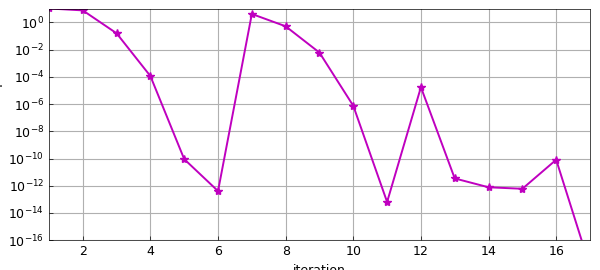
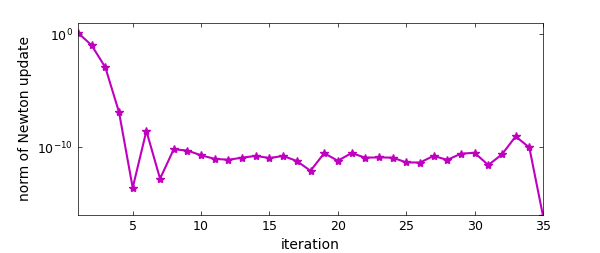
Refresh GulfStream source plots and actual CPU output
Preserve original prose and actual Newton history; document solver parity gaps without tuning tolerances or truncating iterations.

Changed region(s): [[0.0, 0.0277, 0.99, 1.0]]

diff --git a/examples/ode-nonlin/gulf_stream.py b/examples/ode-nonlin/gulf_stream.py
@@ -1,7 +1,7 @@
 """A Gulf Stream model.
 
-Translation of ode-nonlin/GulfStream.m by Nick Trefethen
-(November 2010, after a model of Stommel): the third-order nonlinear
+Translation of ode-nonlin/GulfStream.m by C. I. Gheorghiu
+(January 2020): the third-order nonlinear
 boundary-value problem
 
     u''' - lambda ((u')^2 - u u'') - u + 1 = 0,  x in [0, 35],
@@ -18,7 +18,6 @@ matplotlib.use("Agg")
 import os
 import sys
 import time
-import warnings
 
 import jax.numpy as jnp
 import matplotlib.pyplot as plt
@@ -27,7 +26,7 @@ import numpy as np
 sys.path.insert(0, os.path.join(os.path.dirname(__file__), '..', '..', 'src'))
 
 from chebfunjax.operators.chebop import Chebop
-from chebfunjax.plotting import chebfun_style, plotcoeffs
+from chebfunjax.plotting import chebfun_style, matlab_plot, plotcoeffs
 from chebfunjax.plotting import save_chebfun_figure as _savefig
 
 chebfun_style()
@@ -39,12 +38,39 @@ X = 35.0
 LAM = -0.1
 
 
+def _source_style(fig, slot):
+    from matplotlib.ticker import FormatStrFormatter, LogLocator, NullFormatter
+    fig.set_facecolor("white")
+    fig.set_size_inches(6, 2.53)
+    ax = fig.axes[0]
+    ax.set_position([.13, .15, .775, .76])
+    ax.tick_params(direction="in", top=True, right=True)
+    ax.title.set_fontsize(11)
+    ax.xaxis.label.set_fontsize(10)
+    ax.yaxis.label.set_fontsize(10)
+    ax.xaxis.set_major_formatter(FormatStrFormatter("%g"))
+    if slot == 1:
+        ax.set_xticks([0, 5, 10, 15, 20])
+        ax.yaxis.set_major_formatter(FormatStrFormatter("%g"))
+    elif slot == 2:
+        ax.set_yticks([1, 1e-10])
+        ax.set_xlim(1, len(ax.lines[0].get_xdata()))
+    else:
+        for line in ax.lines:
+            line.set_markersize(3.5)
+            line.set_markeredgewidth(.5)
+        ax.set_yticks([1, 1e-5, 1e-10, 1e-15])
+        ax.yaxis.set_minor_locator(LogLocator(base=10, subs=(1,), numticks=30))
+        ax.yaxis.set_minor_formatter(NullFormatter())
+        ax.grid(True, which="major", color=".85", linewidth=.5)
+        ax.grid(True, which="minor", color=".85", linewidth=.5, linestyle=":")
+
+
 def _save(fig):
     FIG[0] += 1
-    fig.set_facecolor("white")
-    fig.tight_layout()
+    _source_style(fig, FIG[0])
     _savefig(fig, os.path.join(
-        _IMG, f"GulfStream_{FIG[0]:02d}.png"))
+        _IMG, f"GulfStream_{FIG[0]:02d}.png"), size=(600, 253))
     plt.close(fig)
 
 
@@ -55,7 +81,6 @@ def _op(u):
 
 def run():
     os.makedirs(_IMG, exist_ok=True)
-    warnings.filterwarnings("ignore")
     t0 = time.time()
 
     N = Chebop(_op, domain=(0, X))
@@ -63,16 +88,14 @@ def run():
     N.rbc = 1
     u, info = N.solvebvp(0.0)
 
-    t = np.linspace(0, X, 2000)
-    fig, ax = plt.subplots(figsize=(9.2, 4.8))
-    ax.plot(t, np.asarray(u(t)), lw=1.6, label="u")
-    ax.plot(t, np.asarray(u.diff()(t)), lw=1.6, label="u'")
-    ax.plot(t, np.asarray(u.diff(2)(t)), lw=1.6, label="u''")
+    fig, ax = plt.subplots(figsize=(6, 2.53))
+    ax.set_prop_cycle(color=["#0072BD", "#D95319", "#EDB120"])
+    matlab_plot([u, u.diff(), u.diff(2)], ax=ax, linewidth=1.5)
     ax.axis([0, 20, -1, 1.5])
     ax.set_xlabel("x")
-    ax.legend(loc="lower right")
+    ax.legend(["u", "u'", "u''"], loc="lower right", fontsize=9,
+              labelspacing=.1, borderpad=.3, fancybox=False, edgecolor=".4")
     ax.set_title("Slippery or stress-free b. c.")
-    ax.grid(True)
     _save(fig)
 
     print("N_residual =")
@@ -85,16 +108,14 @@ def run():
 
     nd = info["normDelta"]
     fig, ax = plt.subplots(figsize=(9.0, 4.6))
-    ax.semilogy(np.arange(1, len(nd) + 1), nd, 'm*-', lw=1.4)
+    ax.semilogy(np.arange(1, len(nd) + 1), nd, 'm*-', lw=1.5)
     ax.set_ylim(1e-16, 1e1)
     ax.set_xlabel("iteration")
     ax.set_ylabel("norm of Newton update")
-    ax.grid(True)
     _save(fig)
 
     fig, ax = plt.subplots(figsize=(9.0, 4.6))
-    plotcoeffs(u, ax=ax)
-    ax.grid(True)
+    plotcoeffs(u, ax=ax, source=True, color="#0072BD")
     _save(fig)
 
     I = float((u.diff(2)**2

diff --git a/HANDOFF_CODEX.md b/HANDOFF_CODEX.md
@@ -1,5 +1,24 @@
 # chebfunjax: handoff to a Codex agent (2026-10-02)
 
+## GulfStream actual-output and figure refresh (2026-10-08)
+
+Source script rerun on CPU completed at83.09s supervised/3.23GiB peak,
+stable inputs and no survivors. The earlier3GiB capped run is retained.
+All three figures now have the source600x253 canvas and use public source
+plot/plotcoeffs adapters; printed output is the actual completed computation.
+Root rehashed1660 observed Python/native-extension files, checked source/run
+AST identity after styling, preserved prose/MATLAB cells, and viewed all three
+reference/current pairs. Fonts, sampling grids and pixels are not fully equal.
+
+Scientific parity remains open:35 Newton updates versus reference5,57
+coefficients, integral error1.605131083604050e-9 versus cached8.482e-14,
+left derivative boundary residual1.458e-9. The differential residual is
+1.547e-12 (cached4.581e-10); comparisons are not uniformly worse. Actual
+history is retained. Source initial-guess, stopping-norm and adaptive-solve
+policy gaps are documented for the nonlinear solver worker; no tolerance
+or iteration-history tuning was performed. Evidence:gulf_stream_root_acceptance_20261008.json
+and gulf_stream_source_20261008/SOLVER_DIAGNOSIS.md in shared scratch.
+
 ## Restriction and Ballfun Helmholtz source qualification (2026-10-08)
 
 Chebfun restriction now preserves breakpoint vectors, existing point values,

diff --git a/docs/examples/ode-nonlin/GulfStream.md b/docs/examples/ode-nonlin/GulfStream.md
@@ -48,15 +48,15 @@ rbc_residual = u(end) - rbc               % residual of right BC
 
 ```text
 N_residual =
-     1.475728221374910e-09
+     1.547130238609495e-12
 lbc_residuals =
-   -3.108624468950438e-15  1.227379933799178e-10
+   0.000000000000000e+00  1.457544196448168e-09
 rbc_residual =
-    3.319566843629218e-13
+    4.440892098500626e-16
 I =
-   0.499999999866599
+   0.499999998394869
 I_error =
-     1.334009014364312e-10
+     1.605131083604050e-09
 ```
 
 The Newton iteration has converged quadratically:
@@ -98,7 +98,7 @@ total_time_for_this_example = toc
 
 ```text
 total_time_for_this_example =
-   168.365872383117676
+   75.788147211074829
 ```
 
 ## References
